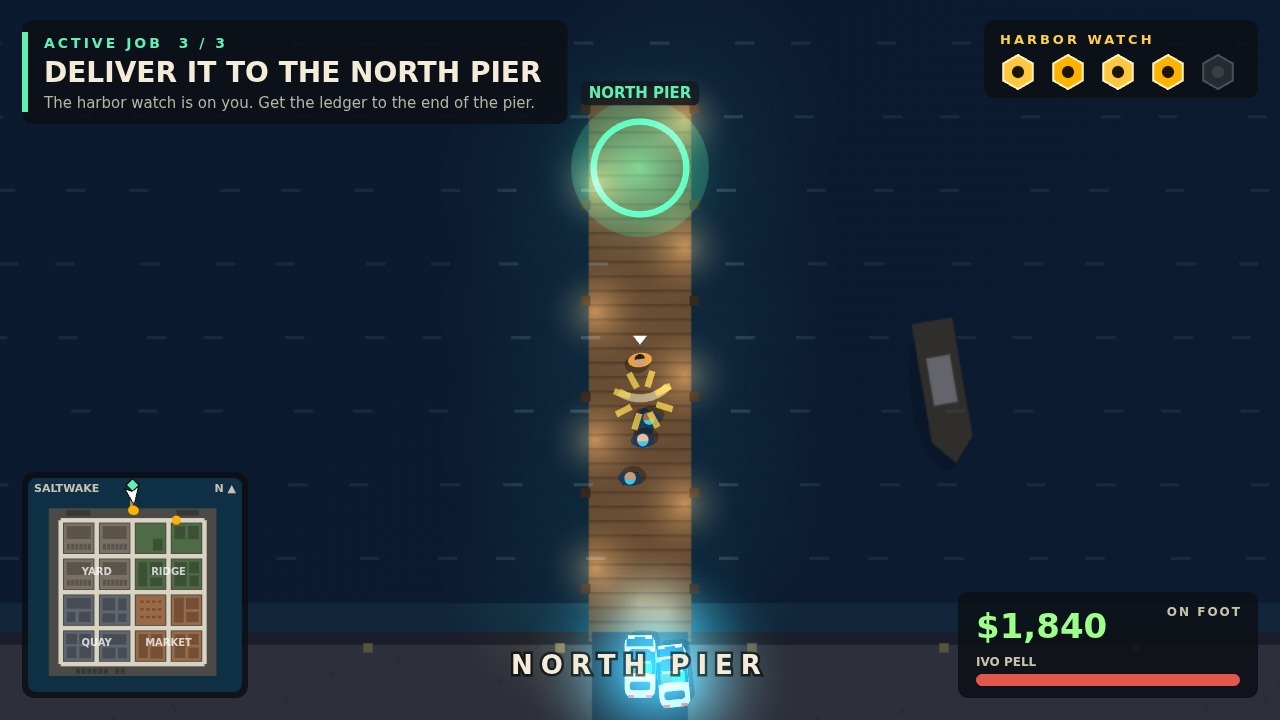
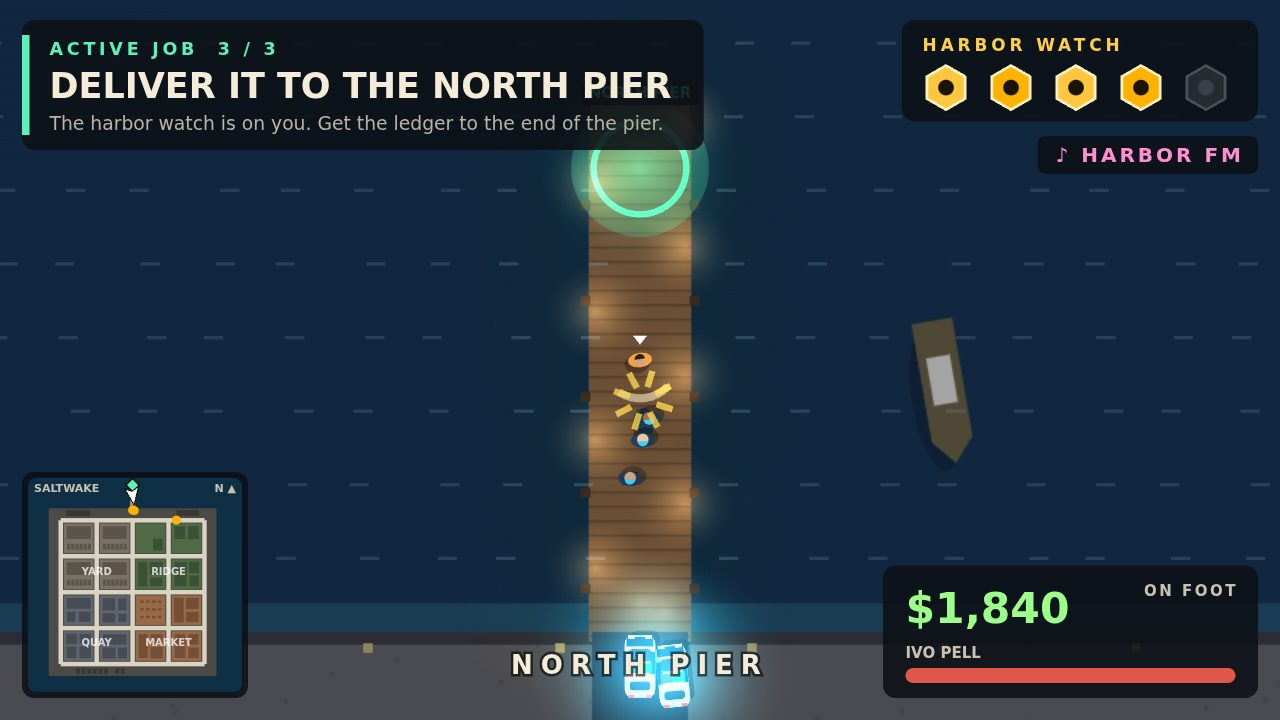
Enlarge the HUD, add the HARBOR FM tag and lighten the dusk
Wanted pips, cash panel and job banner draw 1.25-1.3x larger; a HARBOR FM
radio tag sits under the wanted panel; the dusk overlay drops from
rgba(10,16,40,0.6) to rgba(24,34,70,0.32) so streets, cars and people read
in a contact-sheet thumbnail. Screenshots retaken at 1280x720 JPEG q82.
Small comment and doc touch-ups across the other sources.

diff --git a/game/src/hud.js b/game/src/hud.js
@@ -299,10 +299,27 @@ export function drawHud(ctx, state, cam, hud, dt, paused) {
   ctx.setTransform(ctx.canvas.width / w, 0, 0, ctx.canvas.height / h, 0, 0);
   ctx.textBaseline = 'alphabetic';
   drawArrow(ctx, state, cam, w, h);
-  drawBanner(ctx, state);
-  drawWanted(ctx, state, w);
+  const scaled = (ax, ay, k, draw) => {
+    ctx.save();
+    ctx.translate(ax, ay);
+    ctx.scale(k, k);
+    ctx.translate(-ax, -ay);
+    draw();
+    ctx.restore();
+  };
+  scaled(22, 20, 1.25, () => drawBanner(ctx, state));
+  scaled(w - 22, 20, 1.3, () => drawWanted(ctx, state, w));
   drawMinimap(ctx, state, 28, h - MAP_SIZE - 28);
-  drawStatus(ctx, state, w, h);
+  scaled(w - 22, h - 22, 1.25, () => drawStatus(ctx, state, w, h));
+  ctx.font = font(900, 20);
+  ctx.letterSpacing = '3px';
+  const radio = '♪ HARBOR FM';
+  const rw = ctx.measureText(radio).width + 32;
+  panel(ctx, w - 22 - rw, 136, rw, 38, 8, 'rgba(12,16,22,0.88)');
+  ctx.textAlign = 'right';
+  ctx.fillStyle = '#ff8fd0';
+  ctx.fillText(radio, w - 22 - 14, 162);
+  ctx.letterSpacing = '0px';
   drawDistrict(ctx, state, w, h, hud);
   drawMessage(ctx, state, w);
   if (state.down > 0) {

diff --git a/game/src/shots.js b/game/src/shots.js
@@ -1,4 +1,4 @@
-// The staged screenshots behind ?shot=chase|street|title|pier (with &seed=N). Each starts a real
+// The staged screenshots behind ?shot=chase|street|title|pier (with &seed=N), listed in shots.json. Each starts a real
 // evening and runs the real systems forward, with an autopilot at the controls where Ivo has to
 // act, until the moment the shot is about: a watch cruiser on the bumper, Ivo beside a car he
 // can steal in the Market, the start screen, a strike dropping an officer on the north pier.

diff --git a/game/src/audio.js b/game/src/audio.js
@@ -1,4 +1,4 @@
-// Every sound in Saltwake, made live with the Web Audio API: an engine note that follows the
+// Every sound in Saltwake, made live with the Web Audio API (no audio files are loaded): an engine note that follows the
 // car's speed, the watch's two-tone wail while a cruiser is near, short synthesized hits for
 // strikes, crashes and job beats, and an original slow harbor loop (a bass walk and plucked
 // minor-key notes) under it all. Nothing is loaded; the context starts on the first key or click.

diff --git a/game/src/traffic.js b/game/src/traffic.js
@@ -1,4 +1,4 @@
-// Through traffic: cars that drive the ring road (and an inner loop round the middle of town) in
+// Through traffic (never the watch's cruisers, which watch.js drives): cars that drive the ring road (and an inner loop round the middle of town) in
 // their own lane, both ways, braking for whatever is in front of them; plus the cars parked along
 // the curbs that anyone can steal, the Yard's van among them.
 import { LANE, LINES, MARKET_CAR_SPOT, PARK, ROAD_HALF, YARD_VAN_SPOT } from './city.js';

diff --git a/game/src/input.js b/game/src/input.js
@@ -1,4 +1,4 @@
-// Keyboard and mouse. Held keys give movement (WASD or arrows), running and the handbrake (Shift,
+// Keyboard and mouse (no gamepad). Held keys give movement (WASD or arrows), running and the handbrake (Shift,
 // Space in a car); one-shot presses (E to get in or out, Space or left click to strike, Enter to
 // start, N for a new evening, M to mute, P or Esc to pause) are queued and taken once per frame.
 // The mouse position, turned into a world point by the caller, is where Ivo faces on foot.

diff --git a/game/src/city.js b/game/src/city.js
@@ -1,4 +1,4 @@
-// The island of Saltwake: one fixed map. A ring road and a grid of streets cut the land into
+// The island of Saltwake: one fixed map, the same on every run. A ring road and a grid of streets cut the land into
 // sixteen blocks; the four quarters are the Yard (north-west), the Ridge (north-east), the Quay
 // (south-west) and the Market (south-east). The north pier runs out into the harbor from the
 // middle of the north shore. This file lays the map out, answers collision questions about it,

diff --git a/main.ts b/main.ts
@@ -6,7 +6,7 @@
 // in: it copies game/ and screenshots/ (1-chase.jpg is the cover) to /output and writes
 // /output/dossier.json, the summary the judge reads, with the vendored make.fun library.
 //
-// Play it locally with `node serve.ts`, then open http://localhost:8080.
+// Play it locally with `node serve.ts` (or `node serve.ts --port N`), then open http://localhost:8080.
 // Outside the grader's container, MAKEFUN_OUTPUT_DIR stands in for /output:
 //   mkdir -p out && MAKEFUN_OUTPUT_DIR=out node main.ts
 

diff --git a/game/src/render.js b/game/src/render.js
@@ -236,7 +236,7 @@ function drawDusk(ctx, dusk, cam, state, v) {
   g.setTransform(1, 0, 0, 1, 0, 0);
   g.globalCompositeOperation = 'source-over';
   g.clearRect(0, 0, dusk.width, dusk.height);
-  g.fillStyle = 'rgba(10,16,40,0.6)';
+  g.fillStyle = 'rgba(24,34,70,0.32)';
   g.fillRect(0, 0, dusk.width, dusk.height);
   g.setTransform(cam.zoom * scale, 0, 0, cam.zoom * scale, (cam.w / 2 - cam.x * cam.zoom) * scale, (cam.h / 2 - cam.y * cam.zoom) * scale);
   g.globalCompositeOperation = 'destination-out';

diff --git a/game/src/watch.js b/game/src/watch.js
@@ -1,4 +1,4 @@
-// The harbor watch, Saltwake's police: white-and-slate cruisers with amber-and-cyan bars. While
+// The harbor watch, Saltwake's police (how hard they push follows wanted.js): white-and-slate cruisers with amber-and-cyan bars. While
 // Ivo is wanted they spawn out of sight at a street corner, run the street grid toward him,
 // close in directly once near, and put officers on foot when he is out of his car. They drive
 // away when the heat is off.

diff --git a/game/src/game.js b/game/src/game.js
@@ -1,4 +1,4 @@
-// One evening in Saltwake: the state of the whole town and the fixed-step update that runs every
+// One evening in Saltwake (deterministic for a given seed): the state of the whole town and the fixed-step update that runs every
 // system in order (Ivo, traffic, the watch, car physics, people, fists, wanted, jobs) and
 // collects this step's events for the sound and the screen reader.
 import { buildCity, SAFEHOUSE } from './city.js';

diff --git a/game/src/jobs.js b/game/src/jobs.js
@@ -1,4 +1,4 @@
-// The evening's three jobs for Ivo Pell, in order: take the Yard's van, lift the ledger at the
+// The evening's three jobs for Ivo Pell, in order (each pays cash on success): take the Yard's van, lift the ledger at the
 // Market drop without stopping, then carry it to the end of the north pier with the harbor
 // watch on him. Job 4 is the free evening after. Each job knows its banner, its target and how
 // it is done or blown.

diff --git a/game/src/pedestrians.js b/game/src/pedestrians.js
@@ -1,4 +1,4 @@
-// People on foot: Saltwake's walkers loop the sidewalk round their block, scatter from a fast car
+// People on foot (the officers use drawPerson too): Saltwake's walkers loop the sidewalk round their block, scatter from a fast car
 // or a fight, and lie where a car or a strike drops them. drawPerson paints anyone on foot,
 // Ivo and the harbor watch's officers included.
 import { resolveCircle, SIDEWALK } from './city.js';
